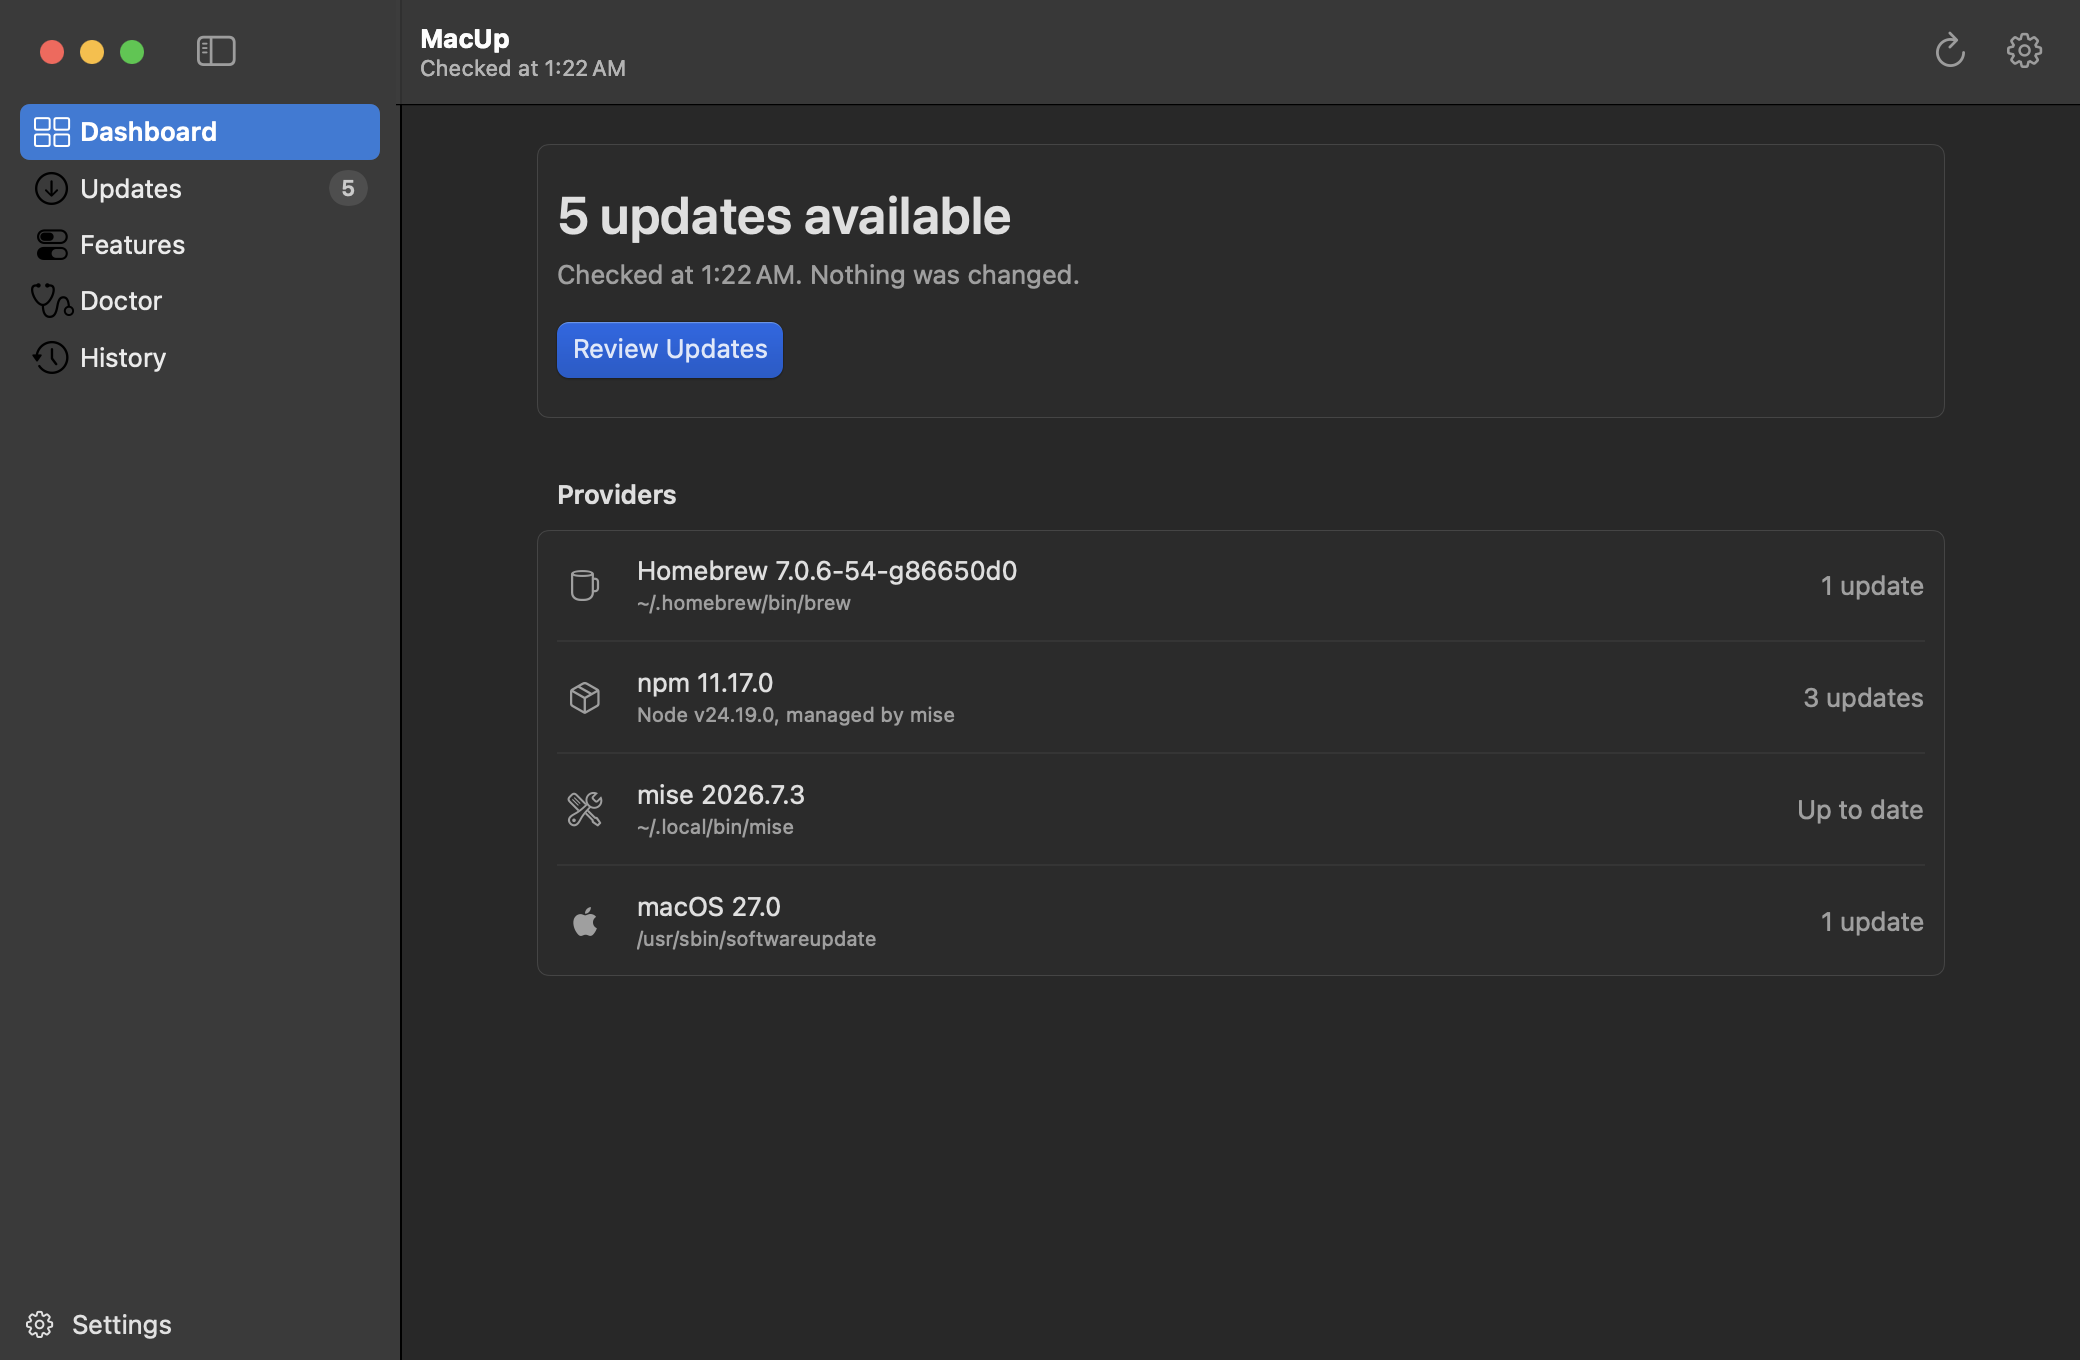
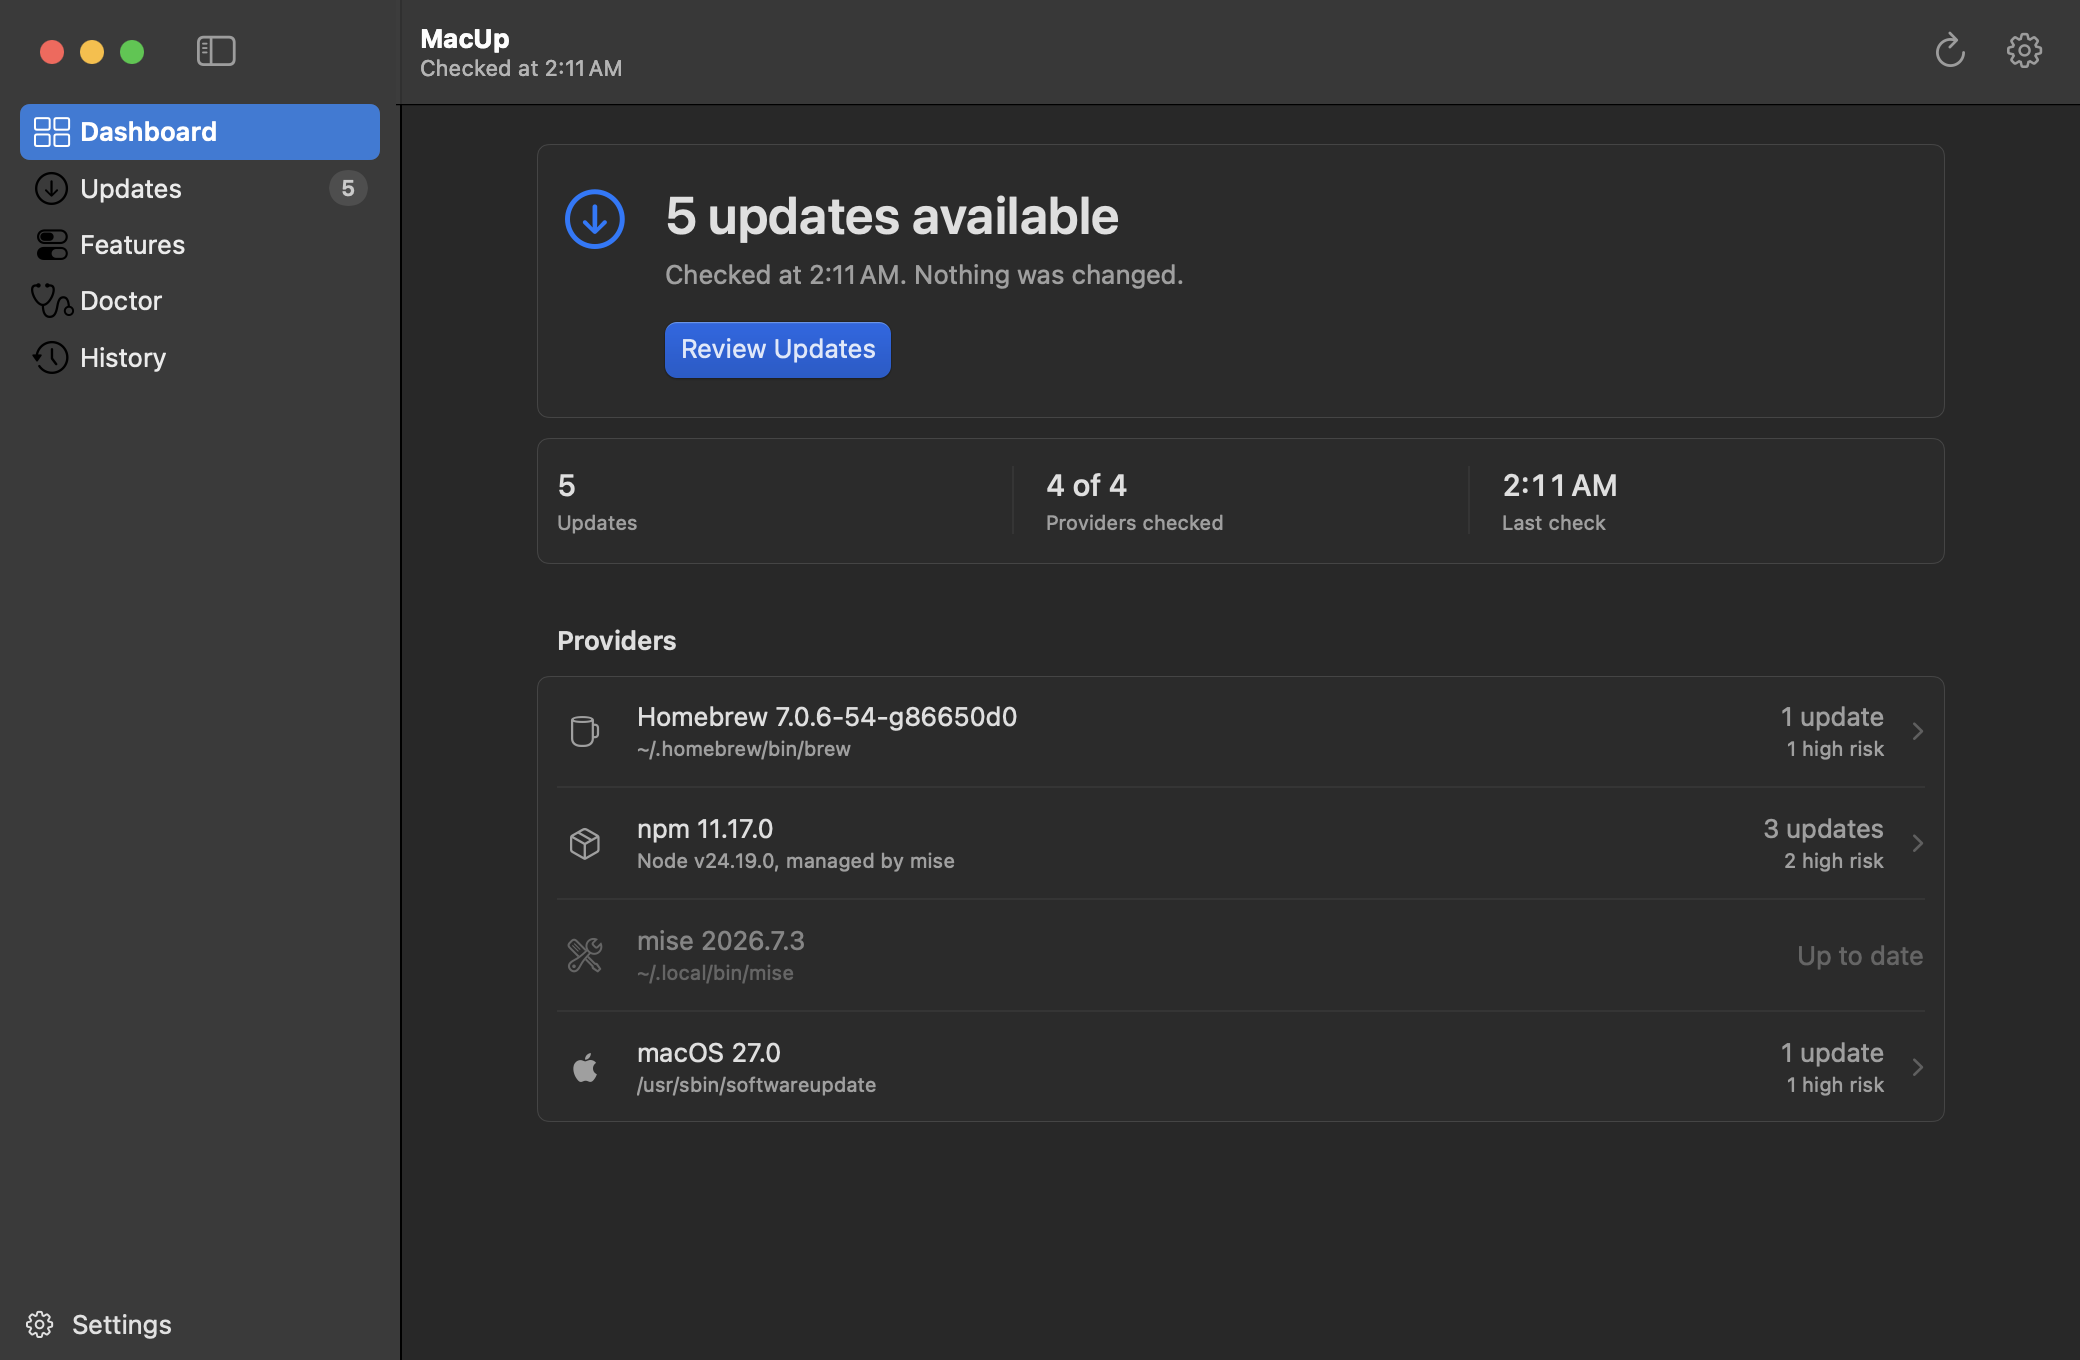
Make the dashboard worth looking at
The dashboard was a headline and a list. It now leads with the status symbol
beside the headline, so the state is visible before the sentence is read, and
carries the glanceable figures CLAUDE.md §13 asks for: updates found,
providers checked out of providers known, pinned items when there are any,
the last check, and the next scheduled one when a check is actually
scheduled. Every figure is something MacUp measured. There is no score and no
percentage.

Provider rows now say how many of their updates are high risk, and they are
buttons: selecting one opens the Updates screen on that provider's first
update instead of the top of a list the reader then has to search. A provider
with nothing outdated is not clickable and says so.

The Updates selection moved to the model to make that possible.

Site screenshots re-captured from the rebuilt app.

diff --git a/Apps/MacUpApp/MacUpApp/Features/Dashboard/DashboardView.swift b/Apps/MacUpApp/MacUpApp/Features/Dashboard/DashboardView.swift
@@ -8,28 +8,64 @@ struct DashboardView: View {
         if let report = model.report {
             Form {
                 Section {
-                    VStack(alignment: .leading, spacing: 6) {
-                        Text(model.status.headline)
-                            .font(.largeTitle.weight(.semibold))
-                        Text(statusLine(report))
-                            .foregroundStyle(.secondary)
-                        if let next = scheduledNext {
-                            Text("Next automatic check \(next.formatted(date: .abbreviated, time: .shortened)).")
+                    HStack(alignment: .top, spacing: 16) {
+                        Image(systemName: model.status.symbolName)
+                            .font(.system(size: 30, weight: .regular))
+                            .foregroundStyle(statusTint)
+                            .frame(width: 38)
+                            .accessibilityHidden(true)
+                        VStack(alignment: .leading, spacing: 6) {
+                            Text(model.status.headline)
+                                .font(.largeTitle.weight(.semibold))
+                            Text(statusLine(report))
                                 .foregroundStyle(.secondary)
-                        }
-                        if report.summary.updatesAvailable > 0 {
-                            Button("Review Updates") { model.section = .updates }
-                                .buttonStyle(.borderedProminent)
-                                .controlSize(.large)
-                                .padding(.top, 10)
+                            if report.summary.updatesAvailable > 0 {
+                                Button("Review Updates") { model.section = .updates }
+                                    .buttonStyle(.borderedProminent)
+                                    .controlSize(.large)
+                                    .padding(.top, 10)
+                            }
                         }
                     }
                     .padding(.vertical, 10)
                 }
 
+                // Only what MacUp actually knows. No score, no percentage.
+                Section {
+                    HStack(alignment: .top, spacing: 0) {
+                        ForEach(facts(report), id: \.label) { fact in
+                            if fact.label != facts(report).first?.label { Divider().frame(height: 34) }
+                            VStack(alignment: .leading, spacing: 3) {
+                                Text(fact.value)
+                                    .font(.title3.weight(.medium))
+                                    .monospacedDigit()
+                                Text(fact.label)
+                                    .font(.caption)
+                                    .foregroundStyle(.secondary)
+                            }
+                            .frame(maxWidth: .infinity, alignment: .leading)
+                            .padding(.leading, fact.label == facts(report).first?.label ? 0 : 16)
+                            .accessibilityElement(children: .combine)
+                            .accessibilityLabel("\(fact.label): \(fact.value)")
+                        }
+                    }
+                    .padding(.vertical, 4)
+                }
+
                 Section("Providers") {
                     ForEach(report.providers, id: \.provider) { provider in
-                        ProviderRow(provider: provider, updateCount: report.updates(for: provider.provider).count)
+                        let updates = report.updates(for: provider.provider)
+                        Button {
+                            // Take the reader to what this row is about,
+                            // rather than to the top of a list they then
+                            // have to search.
+                            model.selectedUpdate = updates.first?.id ?? model.selectedUpdate
+                            model.section = .updates
+                        } label: {
+                            ProviderRow(provider: provider, updates: updates)
+                        }
+                        .buttonStyle(.plain)
+                        .disabled(updates.isEmpty)
                     }
                 }
 
@@ -65,6 +101,43 @@ struct DashboardView: View {
         return status.nextRun
     }
 
+    private var statusTint: Color {
+        switch model.status {
+        case .upToDate: return .green
+        case .updatesAvailable: return .accentColor
+        case .incomplete: return .orange
+        case .notChecked, .checking: return .secondary
+        }
+    }
+
+    private struct Fact: Hashable {
+        let label: String
+        let value: String
+    }
+
+    /// The glanceable numbers from CLAUDE.md §13, and nothing invented.
+    /// A figure is shown only when MacUp has it.
+    private func facts(_ report: CheckReport) -> [Fact] {
+        var facts = [
+            Fact(label: "Updates", value: "\(report.summary.updatesAvailable)"),
+            Fact(
+                label: "Providers checked",
+                value: "\(report.summary.providersChecked) of \(report.providers.count)"
+            ),
+        ]
+        if report.pinnedCount > 0 {
+            facts.append(Fact(label: "Pinned by provider", value: "\(report.pinnedCount)"))
+        }
+        facts.append(Fact(
+            label: "Last check",
+            value: report.finishedAt.formatted(date: .omitted, time: .shortened)
+        ))
+        if let next = scheduledNext {
+            facts.append(Fact(label: "Next check", value: next.formatted(date: .abbreviated, time: .shortened)))
+        }
+        return facts
+    }
+
     private func statusLine(_ report: CheckReport) -> String {
         var parts = ["Checked at \(report.finishedAt.formatted(date: .omitted, time: .shortened)). Nothing was changed."]
         switch report.pinnedCount {
@@ -96,7 +169,10 @@ struct DashboardView: View {
 
 private struct ProviderRow: View {
     let provider: ProviderReport
-    let updateCount: Int
+    let updates: [UpdateCandidate]
+
+    private var updateCount: Int { updates.count }
+    private var highRiskCount: Int { updates.filter { $0.risk.level == .high }.count }
 
     var body: some View {
         HStack(spacing: 12) {
@@ -114,9 +190,23 @@ private struct ProviderRow: View {
                     .truncationMode(.middle)
             }
             Spacer()
-            Text(status)
-                .foregroundStyle(provider.hasErrors ? AnyShapeStyle(.red) : AnyShapeStyle(.secondary))
+            VStack(alignment: .trailing, spacing: 2) {
+                Text(status)
+                    .foregroundStyle(provider.hasErrors ? AnyShapeStyle(.red) : AnyShapeStyle(.secondary))
+                if highRiskCount > 0 {
+                    Text(highRiskCount == 1 ? "1 high risk" : "\(highRiskCount) high risk")
+                        .font(.caption)
+                        .foregroundStyle(.secondary)
+                }
+            }
+            if !updates.isEmpty {
+                Image(systemName: "chevron.right")
+                    .font(.caption.weight(.semibold))
+                    .foregroundStyle(.tertiary)
+                    .accessibilityHidden(true)
+            }
         }
+        .contentShape(Rectangle())
         .padding(.vertical, 2)
     }
 

diff --git a/Apps/MacUpApp/MacUpApp/Features/Updates/UpdatesView.swift b/Apps/MacUpApp/MacUpApp/Features/Updates/UpdatesView.swift
@@ -3,15 +3,15 @@ import SwiftUI
 
 struct UpdatesView: View {
     @Environment(AppModel.self) private var model
-    @State private var selection: PackageID?
     @State private var showsInspector = true
 
     var body: some View {
+        @Bindable var model = model
         let report = model.report
         let updates = report?.updates ?? []
         Group {
             if let report, !updates.isEmpty {
-                List(selection: $selection) {
+                List(selection: $model.selectedUpdate) {
                     if !model.status.reasons.isEmpty {
                         Section {
                             ForEach(model.status.reasons, id: \.self) { reason in
@@ -29,7 +29,7 @@ struct UpdatesView: View {
                         }
                     }
                 }
-                .onAppear { if selection == nil { selection = updates.first?.id } }
+                .onAppear { if model.selectedUpdate == nil { model.selectedUpdate = updates.first?.id } }
             } else if report != nil, !model.status.reasons.isEmpty {
                 ContentUnavailableView(
                     "Check Incomplete",
@@ -46,7 +46,7 @@ struct UpdatesView: View {
         }
         .inspector(isPresented: $showsInspector) {
             Group {
-                if let update = updates.first(where: { $0.id == selection }) {
+                if let update = updates.first(where: { $0.id == model.selectedUpdate }) {
                     UpdateDetail(update: update)
                 } else {
                     ContentUnavailableView("No Selection", systemImage: "sidebar.trailing", description: Text("Select an update to see its details."))

diff --git a/Apps/MacUpApp/MacUpApp/App/AppModel.swift b/Apps/MacUpApp/MacUpApp/App/AppModel.swift
@@ -14,6 +14,9 @@ final class AppModel {
     }
 
     var section: Section? = .dashboard
+    /// Which update the Updates screen has selected. On the model so the
+    /// dashboard can open a provider's first update directly.
+    var selectedUpdate: PackageID?
     private(set) var report: CheckReport?
     private(set) var configuration: LoadedConfiguration?
     private(set) var isChecking = false
